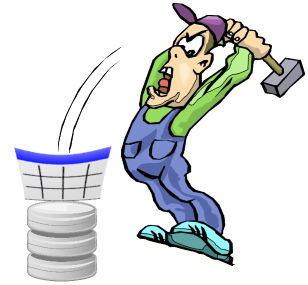
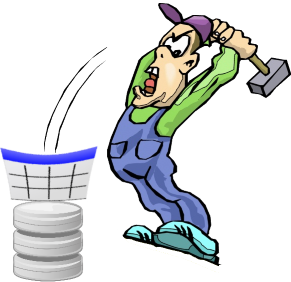
RDMPDEV-1428 Fixed image croping and layout of README.md.  Added nuget package link.

Changed region(s): [[0.0, 0.0, 1.0, 1.0]]

diff --git a/README.md b/README.md
@@ -20,9 +20,11 @@ dt.Rows.Add("Pete Mudarillo","22-May-1910");
 //Load the DBMS implementation(s) you need
 ImplementationManager.Load<MicrosoftSQLImplementation>();
 
-//Get Management object for the database
+//Get management object for the database
 var server = new DiscoveredServer(
-    @"server=localhost\sqlexpress;Trusted_Connection=True;", DatabaseType.MicrosoftSQLServer);
+    @"server=localhost\sqlexpress;Trusted_Connection=True;",
+     DatabaseType.MicrosoftSQLServer);
+
 var database = server.ExpectDatabase("test");
 var table = database.ExpectTable("MyTable");
             
@@ -34,13 +36,19 @@ if(table.Exists())
 database.CreateTable("MyTable",dt);
             
 //Database types are compatible with all the data
-Assert.AreEqual("datetime2",table.DiscoverColumn("Date of Birth").DataType.SQLType);
-Assert.AreEqual("varchar(25)",table.DiscoverColumn("Name").DataType.SQLType);
+Assert.AreEqual("datetime2",
+    table.DiscoverColumn("Date of Birth").DataType.SQLType);
+
+Assert.AreEqual("varchar(25)",
+    table.DiscoverColumn("Name").DataType.SQLType);
 
 //And the (string) data is now properly typed and sat in our DBMS
 Assert.AreEqual(2,table.GetRowCount());    
-Assert.AreEqual(new DateTime(1920,1,1),table.GetDataTable().Rows[0][1]);
-Assert.AreEqual(new DateTime(1910,5,22),table.GetDataTable().Rows[1][1]);
+Assert.AreEqual(new DateTime(1920,1,1),
+    table.GetDataTable().Rows[0][1]);
+
+Assert.AreEqual(new DateTime(1910,5,22),
+    table.GetDataTable().Rows[1][1]);
 ```
 
 FAnsi Sql! it's like a budget version of [SMO](https://docs.microsoft.com/en-us/sql/relational-databases/server-management-objects-smo/sql-server-management-objects-smo-programming-guide?view=sql-server-2017) (that works cross platform - Sql Server,  MySql and Oracle).  It supports:
@@ -53,6 +61,19 @@ FAnsi Sql! it's like a budget version of [SMO](https://docs.microsoft.com/en-us/
  * Query writting assistance (e.g. TOP X)
 
 It is **not** an [ORM](https://en.wikipedia.org/wiki/Object-relational_mapping), it deals only in value type data (Strings, `System.DataTable`, Value Types, SQL etc).
+
+## Install
+
+FAnsi Sql is a [nuget package](https://www.nuget.org/packages/HIC.FansiSql/).  You can install it using either using the package manager:
+
+```
+PM> Install-Package HIC.FansiSql
+```
+Or .NET CLI Console:
+
+```
+> dotnet add package HIC.FansiSql
+```
 
 ## Feature Completeness
 
